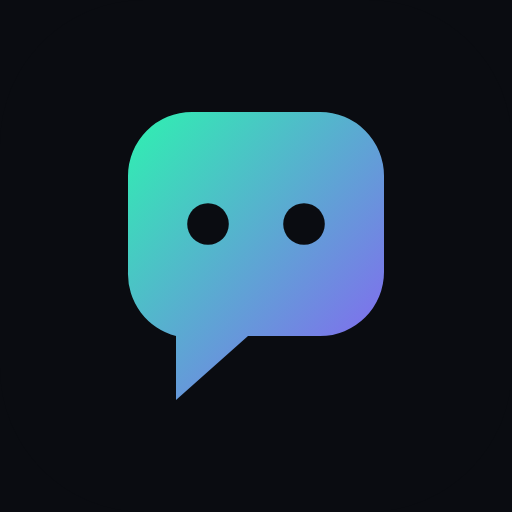
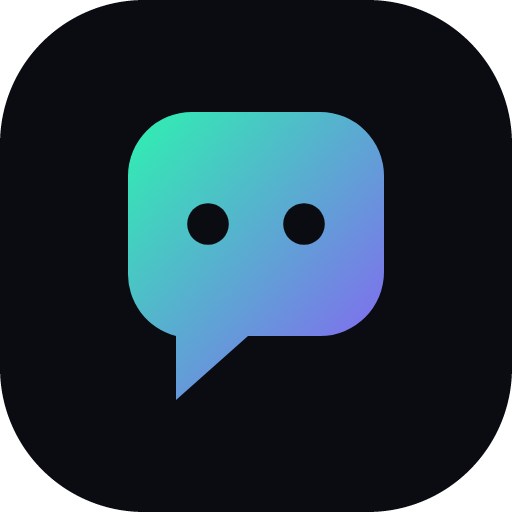
ChatterlyRenewed 2.31.1

diff --git a/frontend/src/app/shared/util/name-fx.directive.ts b/frontend/src/app/shared/util/name-fx.directive.ts
@@ -288,11 +288,28 @@ export class NameFxDirective implements AfterViewChecked, OnDestroy {
     }
   }
 
-  /** Lets every piece that was left resting go on. */
+  /**
+   * Lets every piece that was left resting go on.
+   * ! The pieces rest at the end of their own turn, so they all stand at the start of it: if they simply went on they would
+   *   move together (the delay of each letter, which made the wave of the name, was used up the first time). So when any
+   *   piece was resting they all start again, with their delays, and the name moves as it did the first time.
+   */
   private resume(): void {
-    for (const piece of Array.from(
-      this.layer?.querySelectorAll<HTMLElement>('.nfx-l, .nfx-halo') ?? [],
-    )) {
+    const pieces = Array.from(this.layer?.querySelectorAll<HTMLElement>('.nfx-l, .nfx-halo') ?? []);
+    const rested = pieces.some(function isResting(piece) {
+      return piece.style.animationPlayState === 'paused';
+    });
+    if (rested) {
+      for (const piece of pieces) {
+        piece.style.animation = 'none';
+      }
+      // reading the size makes the browser see the "none" before the animation comes back
+      void this.layer?.offsetWidth;
+    }
+    for (const piece of pieces) {
+      if (rested) {
+        piece.style.animation = '';
+      }
       piece.style.animationPlayState = '';
     }
   }

diff --git a/backend/src/config.ts b/backend/src/config.ts
@@ -51,7 +51,7 @@ export interface AppConfig {
   logger: boolean;
 }
 
-export const APP_VERSION = '2.31.0';
+export const APP_VERSION = '2.31.1';
 
 /** ! The shortest secret the server accepts from the environment (generated ones are 64 characters). */
 const MIN_SECRET_LENGTH = 32;

diff --git a/frontend/src/app/version.ts b/frontend/src/app/version.ts
@@ -1,3 +1,3 @@
 /** Single source of truth for the UI; keep in sync with the package.json files. */
 export const APP_NAME = 'Chatterly-Renewed';
-export const APP_VERSION = '2.31.0';
+export const APP_VERSION = '2.31.1';

diff --git a/desktop/src/picker.html b/desktop/src/picker.html
@@ -71,6 +71,9 @@
         gap: 6px;
         margin-bottom: 12px;
       }
+      #tabs[hidden] {
+        display: none;
+      }
       .tab {
         padding: 7px 14px;
         border: 1px solid #262a3a;

diff --git a/CHANGELOG.es.md b/CHANGELOG.es.md
@@ -2,6 +2,12 @@
 
 Versión en inglés (la original, la que se actualiza primero): [CHANGELOG.md](CHANGELOG.md).
 
+## 2.31.1
+
+- **App de escritorio: compartir pantalla no abre ninguna ventana.** Lo que eliges en el menú de la llamada lo decide: **una pantalla** (en la que está la app) se comparte **al instante**, y solo **una ventana** (o "cualquiera") abre un selector, con solo las ventanas cuando elegiste una ventana.
+- **Un icono redondeado.** El logo de la app (el icono del escritorio, la barra de tareas y la app instalada) tiene las esquinas redondeadas, como el logo de la página, en vez de un cuadrado negro.
+- **La animación de un nombre se repite igual cada vez.** La primera vez que el puntero pasaba por un nombre sus letras se movían una tras otra, pero desde la segunda se movían todas a la vez (se perdía la onda de cada animación). Ahora las letras empiezan de nuevo, con sus propios retardos, cada vez.
+
 ## 2.31.0
 
 - **Cámara: moverla con zoom, borde suave y un fondo más.** En la ventana de la cámara, cuando el zoom pasa del 100%, puedes **arrastrar la vista previa** para mover hacia dónde mira la cámara (se envía a los demás tal como la ves; **Restablecer** la deja como estaba). Un deslizador nuevo, **Borde suave** (sección Fondo), decide lo suave que es la línea entre tú y el fondo. Un fondo nuevo ya hecho, **Caramelo**.

diff --git a/CHANGELOG.md b/CHANGELOG.md
@@ -2,6 +2,12 @@
 
 Spanish version: [CHANGELOG.es.md](CHANGELOG.es.md) (translated from this file; this one is updated first).
 
+## 2.31.1
+
+- **Desktop app: sharing a screen opens no window.** What you choose in the menu of the call decides it: **a screen** (the one the app is on) is shared **at once**, and only **a window** (or "anything") opens a picker, with just the windows when you chose a window.
+- **A rounded icon.** The logo of the app (the icon of the desktop, the taskbar and the installed app) has rounded corners, like the logo of the page, instead of a black square.
+- **The animation of a name repeats the same way every time.** The first time the pointer went over a name its letters moved one after another, but from the second time they all moved together (the wave of each animation was lost). Now the letters start again, with their own delays, every time.
+
 ## 2.31.0
 
 - **Camera: move it when zoomed, soft edge and one more background.** In the window of the camera, once the zoom is above 100% you can **drag the preview** to move where the camera looks (it is sent to the others as you see it; **Reset** puts it back). A new **Soft edge** slider (Background section) sets how soft the line between you and the background is. A new ready-made background, **Candy**.

diff --git a/README.md b/README.md
@@ -8,7 +8,7 @@
 
 **English** · [Español](README.es.md)
 
-![version](https://img.shields.io/badge/version-2.31.0-2ef2b0?style=flat-square)
+![version](https://img.shields.io/badge/version-2.31.1-2ef2b0?style=flat-square)
 ![encryption](https://img.shields.io/badge/E2EE-AES--256--GCM%20%C2%B7%20ECDH%20P--256%20%C2%B7%20ECDSA-8b5cf6?style=flat-square)
 ![calls](https://img.shields.io/badge/calls-WebRTC%20mesh%20%C2%B7%20DTLS--SRTP-38e8ff?style=flat-square)
 ![tests](https://img.shields.io/badge/test-1%20completo-2ef2b0?style=flat-square)
